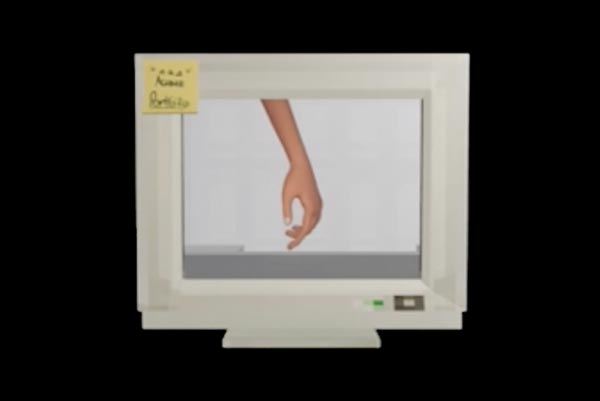
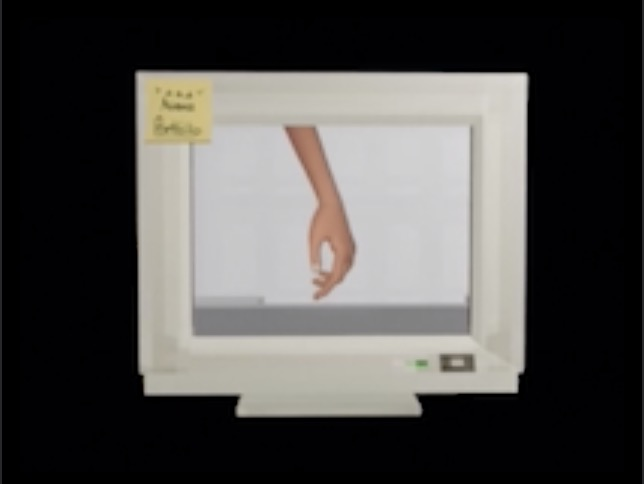
Changed poster

diff --git a/src/components/Folio/utils/config.js b/src/components/Folio/utils/config.js
@@ -3,7 +3,7 @@ import d2r from './d2r.js'
 export default {
     camera: {
         fov: 43.6,
-        fovMobile: 56.6,
+        fovMobile: 60.6,
         near: 0.01,
         far: 1000,
         position: {
